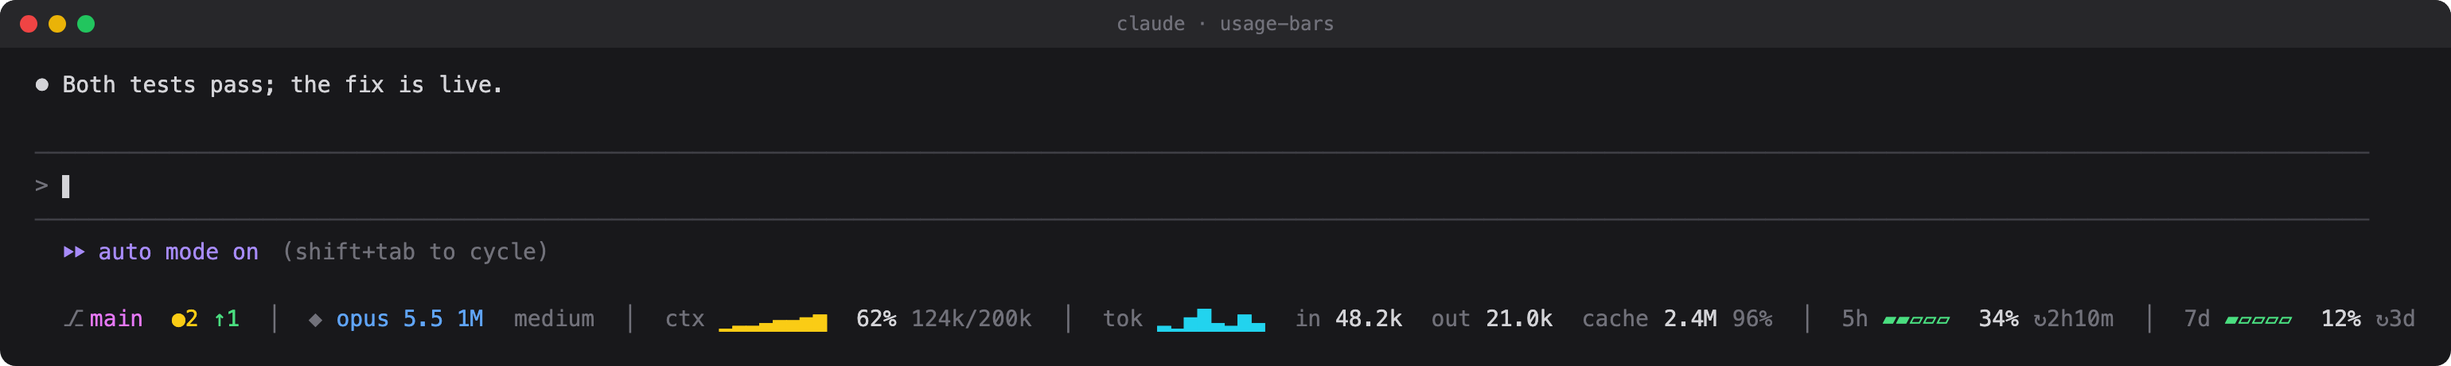
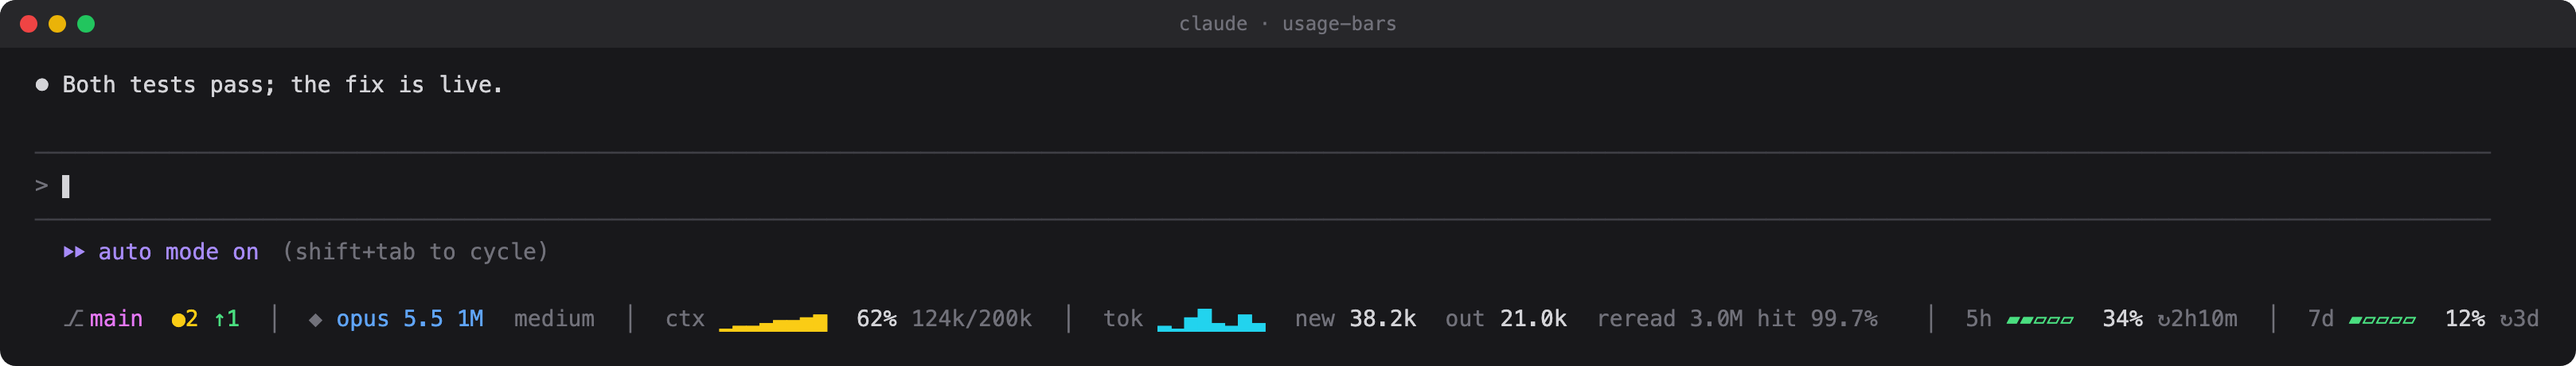
usage-bars 0.1.1: live token totals per model request, clearer tok group
Count usage as each model request answers (subagents included) instead of once per turn.
Show new / out / reread tokens and the cache hit rate to one decimal, rounded down.
Restore the turn.step hook that also tracks the model, keeping the session's [1m] spelling.

diff --git a/plugins/usage-bars/hooks/register.tsx b/plugins/usage-bars/hooks/register.tsx
@@ -1,5 +1,5 @@
 import { atom, read, update } from 'claude-code'
-import type { EngineInterface, Register, RenderChildren } from 'claude-code'
+import type { EngineInterface, Register, RenderChildren, TurnUsage } from 'claude-code'
 
 import type { GitInfo, Limit, ModelInfo, Sample, Totals } from '../types'
 
@@ -101,9 +101,19 @@ async function measure($: EngineInterface) {
   await update($, current, () => sample)
 }
 
-// Everything the session's model calls have processed so far
-function processed(t: Totals): number {
-  return t.input + t.output + t.cacheRead + t.cacheWrite
+// The tokens the model actually had to take in or write: everything but the cheap cache re-reads
+function fresh(t: Totals): number {
+  return t.input + t.cacheWrite + t.output
+}
+
+// Add one model request's usage to the session's totals
+async function count($: EngineInterface, u: TurnUsage) {
+  await update($, totals, t => ({
+    input: t.input + u.input_tokens,
+    output: t.output + u.output_tokens,
+    cacheRead: t.cacheRead + u.cache_read_input_tokens,
+    cacheWrite: t.cacheWrite + u.cache_creation_input_tokens,
+  }))
 }
 
 // Close a turn: keep its reading as one bar, the newest MAX_BARS of them
@@ -137,36 +147,40 @@ export const register: Register = on => {
     return next(e)
   })
 
-  // Every turn adds its tokens to the totals; a main-loop turn also closes a bar,
-  // its tokens being everything processed since the last one (its subagents' included)
+  // Every model request, a subagent's included, adds its usage as soon as it answers;
+  // the main loop's also carry the model and effort actually sent
+  on('turn.step', async function* ($, e, next) {
+    if (e.agentId === undefined) {
+      const effort = e.effort === undefined ? null : String(e.effort)
+      // A request names the bare id; keep the session's own spelling (its [1m] suffix) while it is the same model
+      await update($, model, m => ({ name: m && m.name.replace(/\[.*\]$/, '') === e.model ? m.name : e.model, effort: effort ?? m?.effort ?? null }))
+    }
+    // Pass every chunk on; the usage rides the stop chunk or the step's result
+    const stream = next(e)
+    let u: TurnUsage | null = null
+    for (let r = await stream.next(); ; r = await stream.next()) {
+      if (r.done) {
+        const result = r.value ?? (await stream.result)
+        u = result?.usage ?? u
+        if (u) await count($, u)
+        return result
+      }
+      if (r.value.kind === 'stop' && r.value.usage) u = r.value.usage
+      yield r.value
+    }
+  })
+
+  // A main-loop turn ended: one bar for it, its fresh tokens since the last one (its subagents' included)
   on('turn.complete', async ($, e, next) => {
     const done = await next(e)
-    const u = e.usage
-    const sum = u
-      ? await update($, totals, t => ({
-          input: t.input + u.input_tokens,
-          output: t.output + u.output_tokens,
-          cacheRead: t.cacheRead + u.cache_read_input_tokens,
-          cacheWrite: t.cacheWrite + u.cache_creation_input_tokens,
-        }))
-      : await read($, totals)
     if (e.agentId === undefined) {
-      const now = processed(sum)
+      const now = fresh(await read($, totals))
       const spent = now - Math.min(await read($, mark), now)
       await update($, mark, () => now)
       await update($, turns, list => [...list, spent].slice(-MAX_BARS))
       await record($)
     }
     return done
-  })
-
-  // The main loop's model requests carry the model and effort actually sent
-  on('turn.step', async function* ($, e, next) {
-    if (e.agentId === undefined) {
-      const effort = e.effort === undefined ? null : String(e.effort)
-      await update($, model, m => ({ name: e.model, effort: effort ?? m?.effort ?? null }))
-    }
-    return yield* next(e)
   })
 
   on('classic.PostToolUse', async ($, e, next) => {
@@ -194,9 +208,9 @@ export const register: Register = on => {
 
     const sum = await read($, totals)
     const perTurn = await read($, turns)
-    // How much of the input the prompt cache served
+    // How much of the input the prompt cache served, rounded down so it never claims 100 % early
     const fed = sum.input + sum.cacheRead + sum.cacheWrite
-    const hit = fed > 0 ? Math.round((sum.cacheRead / fed) * 100) : 0
+    const hit = fed > 0 ? Math.floor((sum.cacheRead / fed) * 1000) / 10 : 0
 
     const engineLine = await next(e)
 
@@ -239,18 +253,17 @@ export const register: Register = on => {
             {latest.percent}% <Text dimColor>{short(latest.tokens)}/{short(size)}</Text>
           </Text>,
         ),
-      processed(sum) > 0 &&
+      fresh(sum) + sum.cacheRead > 0 &&
         group(
           'tok',
           'tok',
           <Text color="cyan">{bars(perTurn, Math.max(...perTurn, 1))}</Text>,
           <Text>
-            <Text dimColor>in </Text>
-            {short(sum.input)}
+            <Text dimColor>new </Text>
+            {short(sum.input + sum.cacheWrite)}
             <Text dimColor>  out </Text>
             {short(sum.output)}
-            <Text dimColor>  cache </Text>
-            {short(sum.cacheRead)} <Text dimColor>{hit}%</Text>
+            <Text dimColor>  reread {short(sum.cacheRead)}  hit {hit.toFixed(1)}%</Text>
           </Text>,
         ),
       ...windows.map(w =>

diff --git a/plugins/usage-bars/tests/usage-bars.test.tsx b/plugins/usage-bars/tests/usage-bars.test.tsx
@@ -24,6 +24,11 @@ function engine(on: On, readings: number[]) {
   }))
   on('session.measure', async (_$, e) => ({ changed: e.changed }))
   on('turn.complete', async (_$, e) => ({ text: e.answer }))
+  // A model request that answers at once; its usage rides the stop chunk, as the engine streams it
+  on('turn.step', async function* (_$, e) {
+    yield { kind: 'stop' as const, stopReason: 'end_turn' as const, usage }
+    return { turnId: e.turnId, index: e.index, answer: '', toolUses: [], stopReason: 'end_turn' as const, usage }
+  })
   on('ui.render', { component: 'PromptHint' }, async ($, e) => {
     const { Text } = $.ui.resolve(e)
     return <Text>{e.props.hint}</Text>
@@ -32,21 +37,25 @@ function engine(on: On, readings: number[]) {
 
 const usage = { model: 'claude-opus-5-5', input_tokens: 1000, output_tokens: 500, cache_read_input_tokens: 40_000, cache_creation_input_tokens: 2000 }
 const turn = { answer: '', durationMs: 1000, isAborted: false, turnId: 't', reason: 'answer', usage } as never
+const step = { turnId: 't', index: 0, model: 'claude-opus-5-5', messageCount: 1 }
 const measure: SessionMeasureInput = { rateLimits: [], context: { window: 200_000 }, changed: ['context'] }
 
 test('draws the ctx and per-turn rows from the readings', async ($, on) => {
   engine(on, [20_000, 50_000, 130_000])
   await $.session.start({ cwd: '/', surface: 'terminal', isInteractive: true })
-  await $.turn.complete(turn)
-  await $.turn.complete(turn)
+  // Two turns of one model request each
+  for (let i = 0; i < 2; i++) {
+    for await (const _ of $.turn.step(step)) void _
+    await $.turn.complete(turn)
+  }
   for (const surface of ['terminal', 'desktop'] as const) {
     const ui = await $.ui.mount({ ...HINT, surface })
     expect(await ui.find({ type: 'Text', text: /\? for shortcuts/ })).toBeDefined()
     expect(await ui.find({ type: 'Text', text: /65%/ })).toBeDefined()
     expect(await ui.find({ type: 'Text', text: /130k\/200k/ })).toBeDefined()
-    // Two turns of 1k in, 500 out, 40k cache read, 2k cache write: 80000 / 86000 served from cache
+    // Two requests of 1k in, 500 out, 40k cache read, 2k cache write: 80000 / 86000 = 93.02 % served from cache
     expect(await ui.find({ type: 'Text', text: /^tok$/ })).toBeDefined()
-    expect(await ui.find({ type: 'Text', text: /in 2\.0k\s+out 1\.0k\s+cache 80\.0k 93%/ })).toBeDefined()
+    expect(await ui.find({ type: 'Text', text: /new 6\.0k\s+out 1\.0k\s+reread 80\.0k\s+hit 93\.0%/ })).toBeDefined()
     expect(await ui.find({ type: 'Text', text: /^5h$/ })).toBeDefined()
     expect(await ui.find({ type: 'Text', text: /34%/ })).toBeDefined()
     expect(await ui.find({ type: 'Text', text: /↻2h(09|10)m/ })).toBeDefined()

diff --git a/plugins/usage-bars/types/index.d.ts b/plugins/usage-bars/types/index.d.ts
@@ -22,10 +22,10 @@ declare module 'claude-code' {
       current: Sample | null
       // The model's context window in tokens
       window: number
-      // Token totals so far, and the tokens each main turn processed
+      // Token totals so far, and the fresh tokens each main turn took
       totals: Totals
       turns: number[]
-      // The processed total when the last main turn closed
+      // The fresh total (new input + output) when the last main turn closed
       mark: number
       // The account's rate-limit windows, as last measured
       limits: Limit[]

diff --git a/README.md b/README.md
@@ -13,7 +13,7 @@ One row under the prompt, refreshed after every turn:
 | `⎇` | git branch, `●` uncommitted files, `↑`/`↓` commits ahead of / behind upstream, `✓` when clean |
 | `◆` | the model the main loop runs and its effort level |
 | `ctx` | context-window fill: one bar per turn, then the live % and tokens / window |
-| `tok` | tokens each turn processed (bars), then session totals: uncached input, output, cache reads and the cache hit rate (subagents included) |
+| `tok` | fresh tokens per turn (bars), then live session totals, subagents included: `new` input the model had to read (uncached + newly cached), `out` generated, `reread` cheap cache re-reads, and the cache `hit` rate |
 | `5h` / `7d` | your rate-limit windows: % used and time until reset (subscription accounts) |
 
 Charts turn yellow from 60 % and red from 85 %. The row wraps on narrow terminals.
